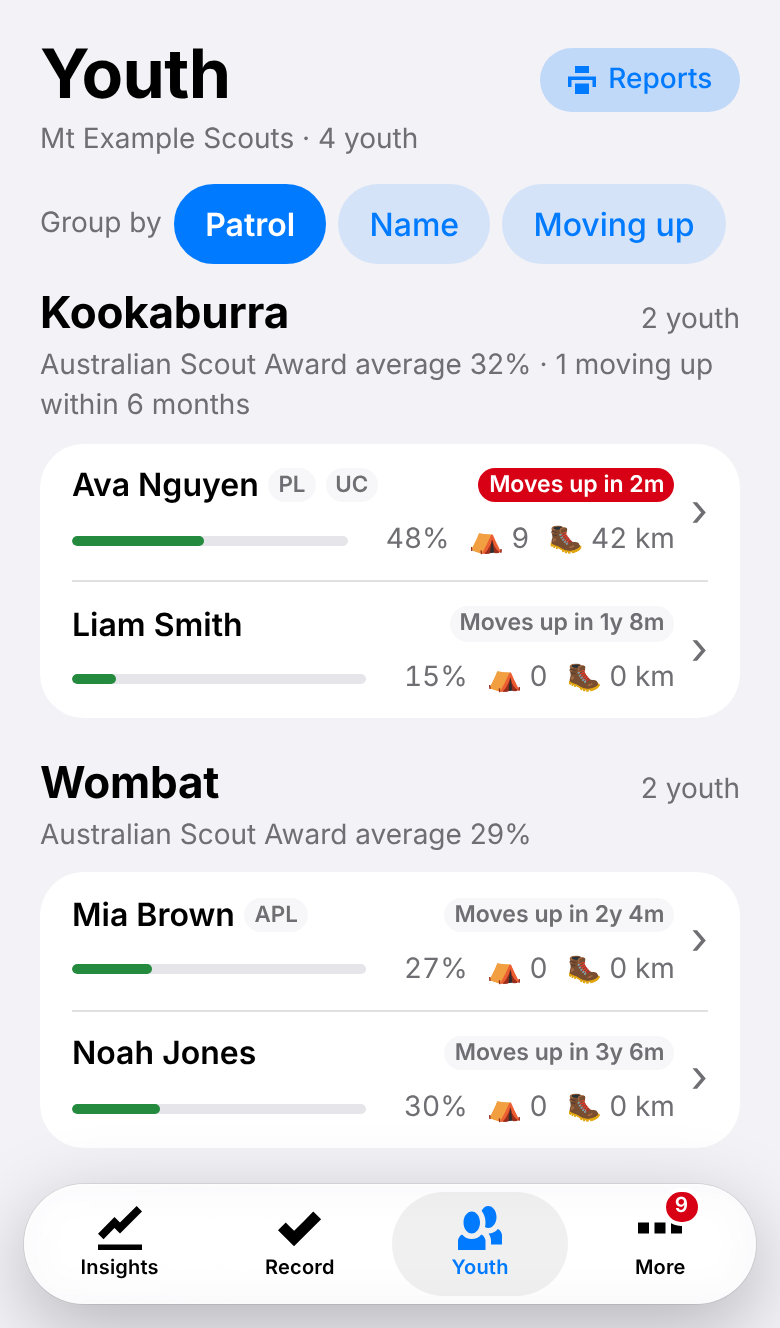
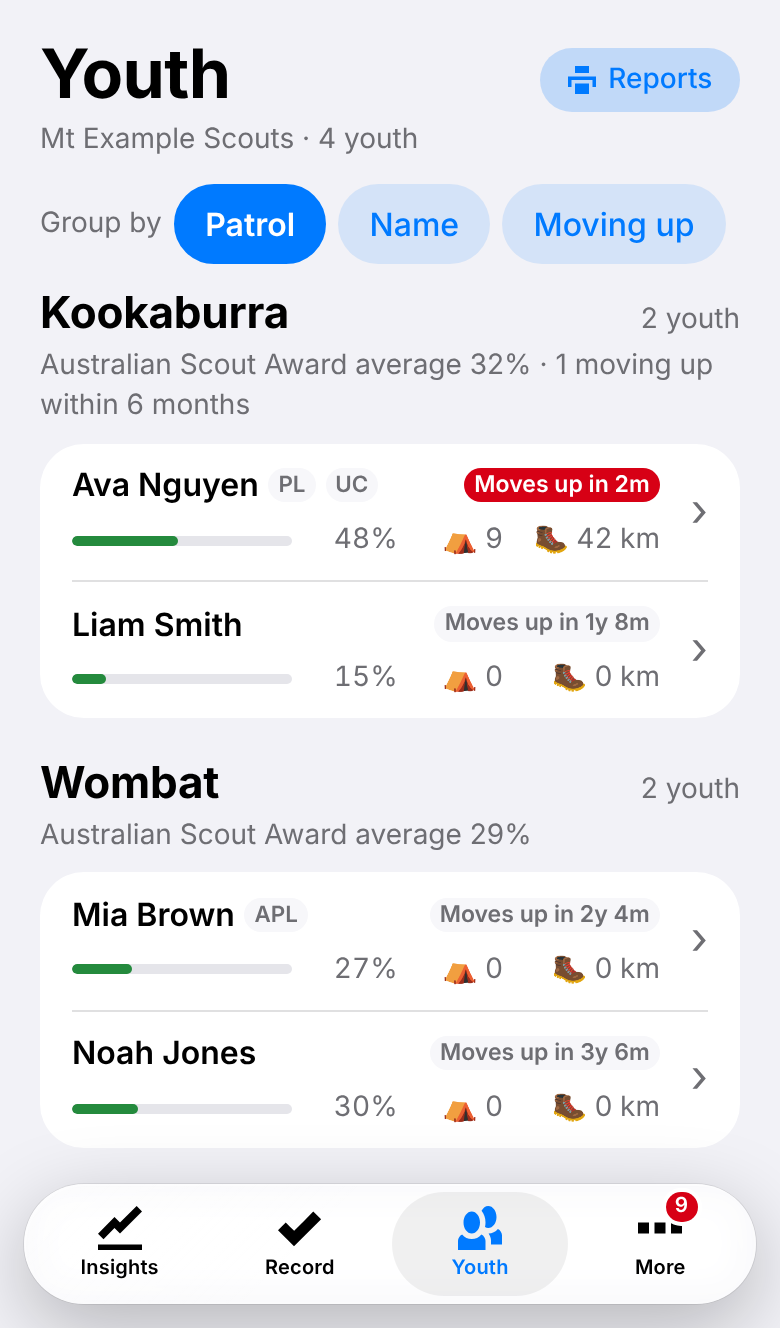
Youth: each row on a shared grid, so its parts line up down the page
A youth's row is now a grid with the same columns in every row: the name (with PL/APL and UC) above
its award bar, then fixed-width columns for the percentage, nights and km, right aligned with tabular
figures, and the chevron. When they move up sits at the end of the numbers' columns on the first line.
Bars are the same length in every row, and each number lines up with the one above, across patrols.

Claude-Session: https://claude.ai/code/session_015mRLp29RKmPLuQrvmduhrB

diff --git a/src/routes/progress/+page.svelte b/src/routes/progress/+page.svelte
@@ -217,48 +217,48 @@
 					{#each section.items as member (member.id)}
 						{@const badge = moveUp(member)}
 						{@const summary = loaded[member.id]}
+						<!-- A grid shared by every row, so the bars, percentages, nights and km line up down the page:
+						     the name above its bar, then fixed columns for the numbers, then the chevron -->
 						<a class="row-link youth" href={pagePath(`progress/${member.id}/`)}>
-							<div class="grow">
-								<div class="name-row">
-									<span class="name">
-										<span class="strong">{member.firstName} {members.lastName(member)}</span>
-										{#if member.patrolDuty}<span class="badge badge-plain duty"
-												>{member.patrolDuty}</span
-											>{/if}
-										{#if member.unitCouncil}<span
-												class="badge badge-plain council"
-												title="On the Unit Council">UC</span
-											>{/if}
-										{#if grouping !== 'patrol' && member.patrolName}<span
-												class="small muted patrol-name">{member.patrolName}</span
-											>{/if}
+							<span class="name">
+								<span class="strong">{member.firstName} {members.lastName(member)}</span>
+								{#if member.patrolDuty}<span class="badge badge-plain duty"
+										>{member.patrolDuty}</span
+									>{/if}
+								{#if member.unitCouncil}<span
+										class="badge badge-plain council"
+										title="On the Unit Council">UC</span
+									>{/if}
+								{#if grouping !== 'patrol' && member.patrolName}<span
+										class="small muted patrol-name">{member.patrolName}</span
+									>{/if}
+							</span>
+							{#if badge}
+								<span class="badge move-up {badgeClass[badge.urgency]}">{badge.text}</span>
+							{/if}
+							{#if summary}
+								<!-- The patrol's summary names the award -->
+								<span class="award small muted">
+									<span class="award-track" aria-hidden="true">
+										<span style:width="{summary.percent}%"></span>
 									</span>
-									{#if badge}
-										<span class="badge move-up {badgeClass[badge.urgency]}">{badge.text}</span>
-									{/if}
-								</div>
-								{#if summary}
-									<!-- One line, the same in every row: the award's bar and percentage, then the logbook.
-									     The patrol's summary names the award -->
-									<div class="award small muted">
-										<span class="award-track" aria-hidden="true">
-											<span style:width="{summary.percent}%"></span>
-										</span>
-										<span class="percent" title="{rules.peakAwardName} {summary.percent}%"
-											><span class="visually-hidden">{`${rules.peakAwardName} `}</span
-											>{summary.percent}%</span
+									<span class="percent" title="{rules.peakAwardName} {summary.percent}%"
+										><span class="visually-hidden">{`${rules.peakAwardName} `}</span
+										>{summary.percent}%</span
+									>
+									<span class="logbook">
+										<span
+											class="nights"
+											title="Nights camped"
+											aria-label="{summary.nights} nights camped"
+											><span aria-hidden="true">⛺</span> {summary.nights}</span
 										>
-										<span class="logbook">
-											<span title="Nights camped" aria-label="{summary.nights} nights camped"
-												><span aria-hidden="true">⛺</span> {summary.nights}</span
-											>
-											<span title="Kilometres hiked" aria-label="{summary.kms} km hiked"
-												><span aria-hidden="true">🥾</span> {summary.kms} km</span
-											>
-										</span>
-									</div>
-								{/if}
-							</div>
+										<span class="kms" title="Kilometres hiked" aria-label="{summary.kms} km hiked"
+											><span aria-hidden="true">🥾</span> {summary.kms} km</span
+										>
+									</span>
+								</span>
+							{/if}
 							<span class="chevron" aria-hidden="true">&rsaquo;</span>
 						</a>
 					{/each}
@@ -326,34 +326,30 @@
 		border-top: 0.5px solid var(--border);
 	}
 
+	/* Name and move up on the first line; bar, percentage, nights and km on the second, each number in
+	   a column of its own width so they line up in every row; the chevron to the right of both */
 	.youth {
-		display: flex;
+		display: grid;
+		grid-template-columns: minmax(0, 1fr) 2.8rem 2.8rem 4.4rem 1rem;
+		grid-template-areas:
+			'name name move move chevron'
+			'bar percent nights kms chevron';
 		align-items: center;
-		gap: 0.5rem;
+		column-gap: 0.5rem;
+		row-gap: 0.35rem;
 		min-height: 44px;
 		padding: 0.6rem 0;
 		color: inherit;
 		text-decoration: none;
 	}
 
-	.grow {
-		flex: 1;
-		min-width: 0;
-	}
-
-	.name-row {
-		display: flex;
-		flex-wrap: wrap;
-		align-items: center;
-		justify-content: space-between;
-		gap: 0.25rem 0.5rem;
-	}
-
 	.name {
+		grid-area: name;
 		display: inline-flex;
 		flex-wrap: wrap;
 		align-items: center;
 		gap: 0.3rem;
+		min-width: 0;
 	}
 
 	.duty,
@@ -361,8 +357,10 @@
 		font-size: 0.7rem;
 	}
 
-	/* Kept on one line: with a long name it goes under the name rather than breaking */
+	/* Kept on one line, at the end of the numbers' columns */
 	.move-up {
+		grid-area: move;
+		justify-self: end;
 		font-size: 0.72rem;
 		font-weight: 600;
 		white-space: nowrap;
@@ -373,10 +371,15 @@
 		color: var(--muted);
 	}
 
-	/* The award's progress filling the row, its percentage, then nights and km, never wrapping */
+	/* The award line's parts take their own places in the row's grid */
+	.award,
+	.logbook {
+		display: contents;
+		font-variant-numeric: tabular-nums;
+	}
+
 	.award-track {
-		flex: 1;
-		min-width: 3rem;
+		grid-area: bar;
 		height: 5px;
 		border-radius: 3px;
 		background: var(--surface-3);
@@ -390,29 +393,28 @@
 		background: var(--success);
 	}
 
-	.award {
-		display: flex;
-		align-items: center;
-		gap: 0.6rem;
-		margin-top: 0.35rem;
-		font-variant-numeric: tabular-nums;
-	}
-
-	.percent {
-		min-width: 2.6rem;
+	.percent,
+	.nights,
+	.kms {
 		text-align: right;
 		white-space: nowrap;
 	}
 
-	.logbook {
-		flex-shrink: 0;
-		display: inline-flex;
-		align-items: center;
-		gap: 0.6rem;
-		white-space: nowrap;
+	.percent {
+		grid-area: percent;
+	}
+
+	.nights {
+		grid-area: nights;
+	}
+
+	.kms {
+		grid-area: kms;
 	}
 
 	.chevron {
+		grid-area: chevron;
+		justify-self: end;
 		color: var(--muted);
 		font-size: 1.4rem;
 	}
